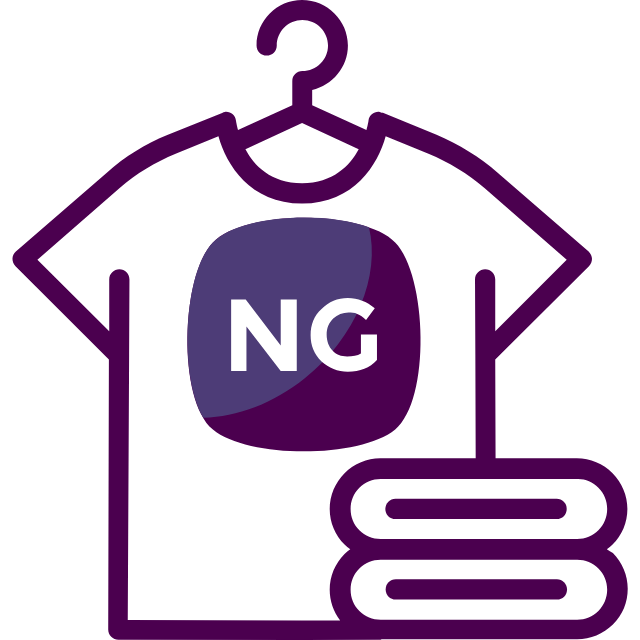
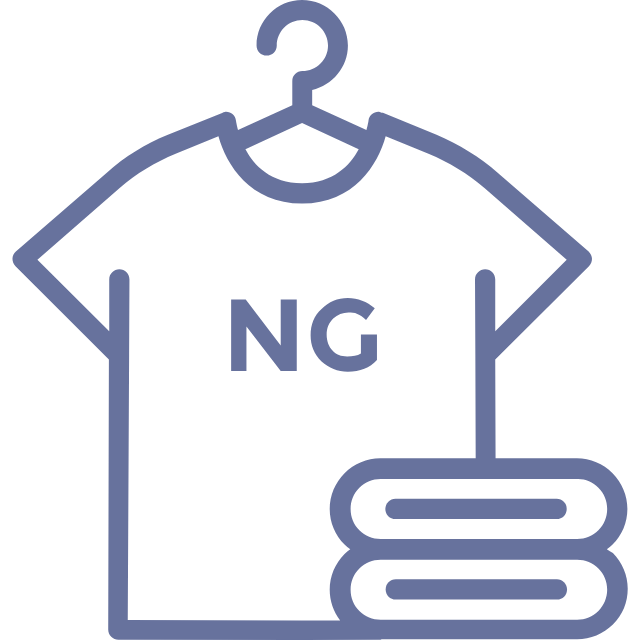
style container tips

Changed region(s): [[0.0, 0.0, 1.0, 1.0], [0.5938, 0.9062, 0.9062, 0.9375], [0.5938, 0.7812, 0.9062, 0.8125]]

diff --git a/main.js b/main.js
@@ -97,7 +97,7 @@ async function getWeather() {
 		const iconKode = getWeatherIcon(kodeCuaca);
 
 		const card = `
-		<li class ="card-days w-38 text-2xl text-blue-400 font-semibold bg-stone-50 flex flex-col items-center border-3 rounded-lg border-indigo-900/90">
+		<li class ="card-days w-50 text-2xl text-blue-400 font-semibold bg-stone-50 flex flex-col items-center border-3 rounded-lg border-none hover:bg-blue-50">
 			<p class="text-blue-900">${ hari }</p>
 			<p class="text-blue-900 mt-1">${ tanggal }</p>
 			<img src ="${iconKode}" alt=weatherIcon.png class="w-15"/>
@@ -116,9 +116,9 @@ async function getWeather() {
 		tipsIcon = 'icon/jemuranNg.png'
 	}
 	const cardTips = `
-	<li class="flex justify-center items-center">
-	<p>今日</p>
-	<img src="${tipsIcon}" alt="tips.png" class="w-15"/>
+	<li class="w-38 h-40 text-3xl text-blue-400 font-semibold bg-rose-200 flex flex-col items-center border-3 rounded-lg border-none hover:bg-rose-100">
+		<p class="text-slate-500/90 mt-2">今日</p>
+		<img src="${tipsIcon}" alt="tips.png" class="w-15 mt-5"/>
 	</li>
 	`;
 	document.getElementById("card-tips").innerHTML = cardTips;

diff --git a/index.html b/index.html
@@ -70,10 +70,8 @@
                 <ul id="container-week" class="flex gap-2"></ul>
             </div>
             <!-- tips -->
-             <div class="container-tips">
-                <ul id="card-tips" class="flex gap-2">
-
-                </ul>
+             <div class="container-tips w-full h-48 flex flex-row justify-center mt-10 mb-6">
+                <ul id="card-tips" class="flex gap-2"></ul>
              </div>
              <!-- end tips -->
             <!-- <div class="container-days w-full h-48 bg-slate-500 flex flex-row justify-center mt-6 mb-6" >
@@ -84,6 +82,7 @@
                     <img src="icon/時々雨 light.png" alt="weather.jpg" class="w-20">
                 </div>
             </div> -->
+
     </main>
     <script src="main.js"></script>
 </body>
